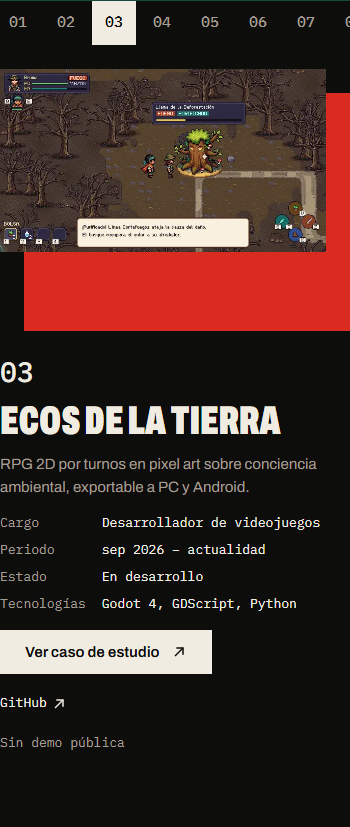
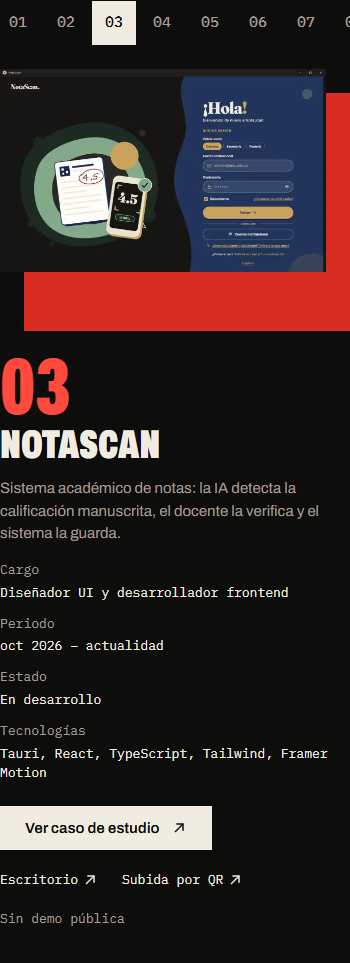
feat(selector): número grande, ficha más ancha y proyectos con captura primero
- Enmiendas 9 y 10 en el anexo
- Número del elegido en titular condensado, ficha de 4 columnas desde 1280 y bajo el escenario entre 768 y 1279
- Orden de proyectos en data/projects.ts con los que tienen captura primero
- Capturas reales de CampusWatch y SETPasto+ tomadas de sus repositorios
- Pruebas y capturas del selector actualizadas

diff --git a/data/projects.ts b/data/projects.ts
@@ -42,19 +42,7 @@ type ProjectBase = Omit<Project, keyof CaseStudy | "image"> & {
 
 // Every fact below comes from the project's own repository (README, manifests or source tree).
 const base: ProjectBase[] = [
-  {
-    id: "agropulse",
-    name: "AgroPulse",
-    start: "2026-03",
-    end: "2026-05",
-    status: "complete",
-    technologies: ["ESP32", "C++", "PlatformIO", "Java 17", "Spring Boot", "Supabase", "Docker", "React", "TypeScript"],
-    links: [
-      { label: "Firmware", url: `${GH}/firmware-AgroPulse` },
-      { label: "Backend", url: `${GH}/backend-AgroPulse` },
-      { label: "Frontend", url: `${GH}/frontend-AgroPulse` },
-    ],
-  },
+  // Enmienda 10: primero los proyectos con captura real. La numeración del sitio sigue este orden.
   {
     id: "siscan",
     name: "SISCAN",
@@ -123,6 +111,48 @@ const base: ProjectBase[] = [
     status: "in-progress",
     technologies: ["Kotlin", "Jetpack Compose", "Wear OS", "Room", "SQLCipher"],
     links: [{ label: "GitHub", url: `${GH}/agenda-android` }],
+    // github.com/diarpicu2022-commits/agenda-android, docs/capturas/cw-en-principal.png (esferas del reloj, en inglés).
+    image: {
+      src: "/projects/campuswatch-esferas.webp",
+      width: 1200,
+      height: 600,
+      alt: {
+        es: "Ocho esferas de CampusWatch en el reloj: tiempo para salir, clase en curso, examen y turno, con la interfaz en inglés.",
+        en: "Eight CampusWatch watch faces: time to leave, class in progress, exam and shift.",
+      },
+    },
+  },
+  {
+    id: "setpasto",
+    name: "SETPasto+",
+    start: "2026-08",
+    end: "2026-08",
+    status: "complete",
+    technologies: ["Node.js", "Express", "EJS", "Tailwind"],
+    links: [{ label: "GitHub", url: `${GH}/Taller-Contenido--voz-y-internacionalizacion` }],
+    // github.com/diarpicu2022-commits/Taller-Contenido--voz-y-internacionalizacion, shots/indicadores-es.png (primer pantallazo recortado a 1440 × 900).
+    image: {
+      src: "/projects/setpasto-indicadores.webp",
+      width: 1280,
+      height: 800,
+      alt: {
+        es: "Página de indicadores de SETPasto+: cumplimiento de itinerario, espera promedio, satisfacción y PQRSD respondidas.",
+        en: "SETPasto+ indicators page: schedule compliance, average wait, satisfaction and answered requests.",
+      },
+    },
+  },
+  {
+    id: "agropulse",
+    name: "AgroPulse",
+    start: "2026-03",
+    end: "2026-05",
+    status: "complete",
+    technologies: ["ESP32", "C++", "PlatformIO", "Java 17", "Spring Boot", "Supabase", "Docker", "React", "TypeScript"],
+    links: [
+      { label: "Firmware", url: `${GH}/firmware-AgroPulse` },
+      { label: "Backend", url: `${GH}/backend-AgroPulse` },
+      { label: "Frontend", url: `${GH}/frontend-AgroPulse` },
+    ],
   },
   {
     id: "hidromon",
@@ -162,15 +192,6 @@ const base: ProjectBase[] = [
     status: "complete",
     technologies: ["Python", "FastAPI"],
     links: [{ label: "GitHub", url: `${GH}/EcoVolt` }],
-  },
-  {
-    id: "setpasto",
-    name: "SETPasto+",
-    start: "2026-08",
-    end: "2026-08",
-    status: "complete",
-    technologies: ["Node.js", "Express", "EJS", "Tailwind"],
-    links: [{ label: "GitHub", url: `${GH}/Taller-Contenido--voz-y-internacionalizacion` }],
   },
   {
     id: "tower-defense",

diff --git a/e2e/portfolio.spec.ts b/e2e/portfolio.spec.ts
@@ -79,6 +79,8 @@ test("unknown pages show the themed 404 and social image exists", async ({ page,
 test("case studies are reachable from the project list and keep the language", async ({ page }) => {
   await page.goto("/");
   await page.waitForLoadState("networkidle");
+  // AgroPulse ya no es el primero (enmienda 10): se elige en el selector antes de abrir su caso.
+  await page.getByRole("tab", { name: /AgroPulse/ }).click();
   await page.getByRole("link", { name: "Ver caso de estudio: AgroPulse" }).click();
   await expect(page).toHaveURL(/\/proyectos\/agropulse$/);
   await expect(page.getByRole("heading", { level: 1, name: "AgroPulse" })).toBeVisible();
@@ -86,7 +88,7 @@ test("case studies are reachable from the project list and keep the language", a
   await expect(page).toHaveURL(/\/en\/projects\/agropulse$/);
   await expect(page.getByRole("heading", { name: "The challenge" })).toBeVisible();
   await page.getByRole("navigation", { name: "Next project" }).getByRole("link").click();
-  await expect(page).toHaveURL(/\/en\/projects\/siscan$/);
+  await expect(page).toHaveURL(/\/en\/projects\/hidromon$/);
 });
 
 test("content stays visible with reduced motion", async ({ browser }) => {
@@ -153,9 +155,9 @@ test("project selector works with the keyboard and keeps the section height", as
   await primera.focus();
   const alto = await page.locator("#proyectos").evaluate((el) => el.getBoundingClientRect().height);
   await page.keyboard.press("ArrowDown");
-  await expect(lista.getByRole("tab", { name: /SISCAN/ })).toBeFocused();
-  await expect(lista.getByRole("tab", { name: /SISCAN/ })).toHaveAttribute("aria-selected", "true");
-  await expect(page.getByRole("tabpanel", { name: /SISCAN/ })).toBeVisible();
+  await expect(lista.getByRole("tab", { name: /Ecos de la Tierra/ })).toBeFocused();
+  await expect(lista.getByRole("tab", { name: /Ecos de la Tierra/ })).toHaveAttribute("aria-selected", "true");
+  await expect(page.getByRole("tabpanel", { name: /Ecos de la Tierra/ })).toBeVisible();
   await page.keyboard.press("End");
   await expect(lista.getByRole("tab", { name: /Tower Defense/ })).toHaveAttribute("aria-selected", "true");
   await page.keyboard.press("Home");
@@ -164,7 +166,7 @@ test("project selector works with the keyboard and keeps the section height", as
   const anim = await page.locator(".selector-panel[data-activo] .selector-anima").evaluate((el) => getComputedStyle(el).animationName);
   expect(anim).toBe("none");
   expect(await page.locator("#proyectos").evaluate((el) => el.getBoundingClientRect().height)).toBe(alto);
-  await expect(page).toHaveURL(/#proyecto-agropulse$/);
+  await expect(page).toHaveURL(/#proyecto-siscan$/);
 });
 
 test("a direct link selects the project; missing capture and demo have their states", async ({ page }) => {

diff --git a/app/globals.css b/app/globals.css
@@ -559,10 +559,20 @@
 .selector-nombre {
   font-size: var(--titular-min);
 }
+/* Enmienda 9. Número del elegido en titular, la mitad del nombre de portada o menos.
+   Rojo claro sobre negro (5.83): el rojo señala al elegido, como el bloque. */
+.selector-numero {
+  font-size: 80px;
+  color: var(--rojo-claro);
+  margin-bottom: calc(-1 * var(--e-8));
+}
 .selector-datos {
   display: grid;
-  grid-template-columns: auto 1fr;
-  gap: var(--e-8) var(--e-16);
+  gap: var(--e-4);
+}
+/* Rótulo encima del valor: el valor usa todo el ancho y cargo y tecnologías caben en dos líneas. */
+.selector-datos dd {
+  margin-bottom: var(--e-8);
 }
 .selector-datos dt {
   color: var(--gris-claro);
@@ -603,7 +613,16 @@
   }
 }
 
-@media (min-width: 1024px) {
+@media (min-width: 768px) {
+  .selector-numero {
+    font-size: 104px;
+  }
+}
+/* Desde 1280 hay sitio para tres columnas: escenario de 5 y ficha de 4. Entre 1024 y 1279 la ficha baja como en tablet. */
+@media (min-width: 1280px) {
+  .selector-numero {
+    font-size: 160px;
+  }
   .selector-paneles {
     grid-template-columns: subgrid;
   }
@@ -614,11 +633,13 @@
     align-items: start;
   }
   .selector-escenario {
-    grid-column: 1 / 7;
+    grid-column: 1 / 6;
   }
   .selector-ficha {
-    grid-column: 7 / -1;
+    grid-column: 6 / -1;
   }
+}
+@media (min-width: 1024px) {
   .selector-bloque,
   .selector-placa {
     inset: var(--e-40) 0 0 var(--e-40);

diff --git a/components/editorial/selector-proyectos.tsx b/components/editorial/selector-proyectos.tsx
@@ -122,7 +122,7 @@ export function SelectorProyectos({ locale }: { locale: Locale }) {
                         alt={p.image.alt}
                         width={p.image.width}
                         height={p.image.height}
-                        sizes="(min-width: 1024px) 600px, (min-width: 768px) 380px, 90vw"
+                        sizes="(min-width: 1280px) 500px, (min-width: 1024px) 630px, (min-width: 768px) 380px, 90vw"
                         loading="lazy"
                       />
                     ) : (
@@ -140,7 +140,9 @@ export function SelectorProyectos({ locale }: { locale: Locale }) {
               </div>
 
               <div className="selector-ficha voz-dato">
-                <p className="voz-dato-fuerte text-28">{numero(i)}</p>
+                <p aria-hidden="true" className="selector-numero voz-titular">
+                  {numero(i)}
+                </p>
                 <h3 className="selector-nombre voz-titular">{p.name}</h3>
                 <p className="voz-texto medida text-15 text-gris-claro">{p.summary}</p>
                 <dl className="selector-datos text-13">

diff --git a/docs/ux/anexos/2026-11-10-rediseno-portafolio.md b/docs/ux/anexos/2026-11-10-rediseno-portafolio.md
@@ -255,6 +255,11 @@ Aprobada por Diego el 10 de noviembre de 2026, al revisar el paso 3.
 
 8. Experiencia y formación van como dos secciones seguidas, cada una con su enlace en la navegación.
 
+Aprobadas por Diego el 10 de noviembre de 2026, al revisar el paso 4.
+
+9. El número del proyecto elegido en el selector puede ir en titular condensado grande. Es la segunda y última excepción a la regla de que el titular solo nombra.
+10. Los proyectos con captura real van primero en el orden del selector. La numeración sigue ese orden en todo el sitio.
+
 Foto. Diego va a tomarse una nueva o a buscar el original. La portada debe aceptar el cambio con solo reemplazar el archivo en `public/retrato/`. Mientras tanto sigue el tope de 560 px de alto.
 
 ## 9. Legal y privacidad
@@ -553,4 +558,27 @@ Capturas en `docs/pantallazos/rediseno/`. Son `Selector 390 primero sin captura 
 3. Ocho de once proyectos no tienen captura. El selector se apoya mucho en la placa roja. Cuando lleguen capturas de esos repositorios se agregan en `data/projects.ts`.
 4. A 1024 px la ficha mide 206 px de ancho y la sección crece a 1156 px. Una ficha más ancha quitaría columnas al escenario.
 5. Las capturas ya no se cargan de golpe, pero sin JavaScript sí bajan las tres al llegar a la sección.
+
+## 15. Verificación de los ajustes del selector, el paso 5 y la privacidad
+
+### 15.1 Ajustes del selector
+
+- Enmienda 9. El número del elegido va en titular condensado, rojo claro sobre negro, encima del nombre en la ficha. Mide 80 px en celular, 104 px en tablet y 160 px desde 1280. Es la mitad del nombre de portada o menos en cada ancho.
+- Desde 1280 px el escenario ocupa 5 columnas y la ficha 4. Entre 768 y 1279 la ficha baja debajo del escenario. Los rótulos de dato van encima de su valor.
+- Medido en los once proyectos, el cargo y las tecnologías no pasan de dos líneas en ningún ancho. La ficha mide 350 px a 390, 421 a 768, 666 a 1024, 368 a 1280 y 421 a 1440.
+- El alto de la sección sigue constante con los once. Mide 1377 px a 390, 1522 a 768, 1501 a 1024 y 1082 a 1440.
+- Enmienda 10. El orden cambió en `data/projects.ts`. Primero van los proyectos con captura. SISCAN, Ecos de la Tierra, NotaScan, CampusWatch / Agenda y SETPasto+. Después AgroPulse, HidroMon, Harmonia, Proxy IA, EcoVolt y Tower Defense. La numeración, las páginas de caso («Siguiente proyecto») y el selector siguen ese orden. La experiencia se ordena por fecha y no cambia. El CV usa la experiencia y busca los proyectos por id, así que no depende del orden y no se regeneró.
+
+Capturas nuevas, tomadas de los repositorios públicos de Diego con `gh api`, sin clonar.
+
+| Proyecto | Origen | Archivo en el sitio | Medidas |
+|---|---|---|---|
+| CampusWatch / Agenda | `agenda-android`, `docs/capturas/cw-en-principal.png` | `public/projects/campuswatch-esferas.webp` | 1200 × 600 |
+| SETPasto+ | `Taller-Contenido--voz-y-internacionalizacion`, `shots/indicadores-es.png`, primer pantallazo recortado a 1440 × 900 | `public/projects/setpasto-indicadores.webp` | 1280 × 800 |
+
+- Se revisaron los repositorios de AgroPulse (firmware, backend y frontend), HidroMon, Harmonia, Proxy IA (backend y frontend), EcoVolt y Tower Defense. Ninguno trae capturas de la interfaz.
+- El README de HidroMon solo tiene insignias. `proxy-ai-frontend/src/assets/hero.png` es la ilustración de la plantilla de Vite, no una captura, y se descartó.
+- Esos seis proyectos siguen con la placa.
+- Resolución efectiva a 1440. CampusWatch se pinta a 493 × 246 y SETPasto+ a 493 × 308, los dos desde archivos de 640 px. Ninguna captura se amplía en ningún ancho.
+- Carga inicial. Bajan el retrato (31 KB) y la captura del primer proyecto, SISCAN (32 KB).
 
